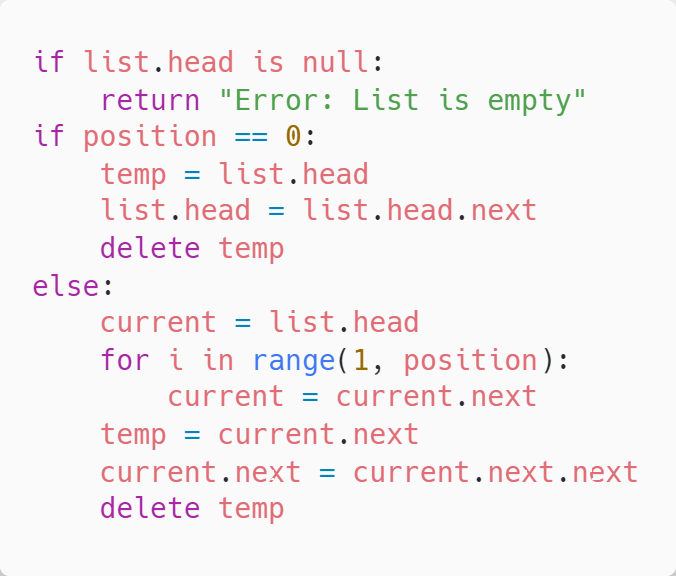
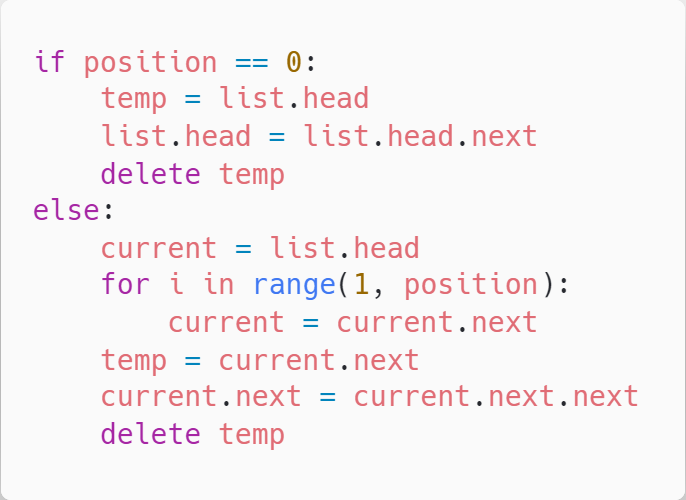
update demo code for singly linked list

diff --git a/include/libScene/SLLScene.cpp b/include/libScene/SLLScene.cpp
@@ -153,14 +153,14 @@ std::vector<EventAnimation> SLLScene::addModeEvents(int chosenNode) {
             event.colorArrows.emplace_back(0, NodeInfo::ArrowType::RIGHT);
             event.statusChosenNode = NodeInfo::StatusNode::OutChain;
             event.isPrintNormal = true;
-            event.lines = {3, 4};
+            event.lines = {1, 2};
 
             events.emplace_back(event);
         }
 
         event.reset();
         event.titleNodes.emplace_back(chosenNode, "head|temp");
-        event.lines = {5};
+        event.lines = {3};
         event.statusChosenNode = NodeInfo::StatusNode::InChain;
         events.emplace_back(event);
     } else {
@@ -174,7 +174,7 @@ std::vector<EventAnimation> SLLScene::addModeEvents(int chosenNode) {
         if (chosenNode == this->linkedList->getSize())
             event.hiddenArrows.emplace_back(chosenNode - 1, NodeInfo::ArrowType::RIGHT);
         event.statusChosenNode = NodeInfo::StatusNode::OutChain;
-        event.lines = {7};
+        event.lines = {5};
 
         events.emplace_back(event);
 
@@ -190,7 +190,7 @@ std::vector<EventAnimation> SLLScene::addModeEvents(int chosenNode) {
             if (chosenNode == this->linkedList->getSize())
                 event.hiddenArrows.emplace_back(chosenNode - 1, NodeInfo::ArrowType::RIGHT);
             event.statusChosenNode = NodeInfo::StatusNode::OutChain;
-            event.lines = {8};
+            event.lines = {6};
 
             events.emplace_back(event);
 
@@ -208,7 +208,7 @@ std::vector<EventAnimation> SLLScene::addModeEvents(int chosenNode) {
             if (chosenNode == this->linkedList->getSize())
                 event.hiddenArrows.emplace_back(chosenNode - 1, NodeInfo::ArrowType::RIGHT);
             event.statusChosenNode = NodeInfo::StatusNode::OutChain;
-            event.lines = {9};
+            event.lines = {7};
 
             events.emplace_back(event);
         }
@@ -224,7 +224,7 @@ std::vector<EventAnimation> SLLScene::addModeEvents(int chosenNode) {
             event.colorArrows.emplace_back(chosenNode, NodeInfo::ArrowType::RIGHT);
             event.statusChosenNode = NodeInfo::StatusNode::OutChain;
             event.isPrintNormal = true;
-            event.lines = {10};
+            event.lines = {8};
 
             events.emplace_back(event);
         }
@@ -235,7 +235,7 @@ std::vector<EventAnimation> SLLScene::addModeEvents(int chosenNode) {
                 {chosenNode, "temp"}
         };
         event.statusChosenNode = NodeInfo::StatusNode::InChain;
-        event.lines = {11};
+        event.lines = {9};
 
         events.emplace_back(event);
     }
@@ -256,7 +256,7 @@ std::vector<EventAnimation> SLLScene::deleteModeEvents(int chosenNode) {
         event.titleNodes.emplace_back(chosenNode, "head|temp");
         event.colorNodes.push_back(chosenNode);
         event.statusChosenNode = NodeInfo::StatusNode::InChain;
-        event.lines = {2, 3};
+        event.lines = {0, 1};
 
         events.emplace_back(event);
 
@@ -270,7 +270,7 @@ std::vector<EventAnimation> SLLScene::deleteModeEvents(int chosenNode) {
             event.colorArrows.emplace_back(chosenNode, NodeInfo::ArrowType::RIGHT);
             event.isPrintNormal = true;
             event.statusChosenNode = NodeInfo::StatusNode::OutChain;
-            event.lines = {4};
+            event.lines = {2};
 
             events.emplace_back(event);
         }
@@ -278,7 +278,7 @@ std::vector<EventAnimation> SLLScene::deleteModeEvents(int chosenNode) {
         event.reset();
         event.titleNodes.emplace_back(1, "head");
         event.statusChosenNode = NodeInfo::StatusNode::Visible;
-        event.lines = {5};
+        event.lines = {3};
 
         events.emplace_back(event);
     } else {
@@ -286,7 +286,7 @@ std::vector<EventAnimation> SLLScene::deleteModeEvents(int chosenNode) {
         event.titleNodes.emplace_back(0, "head|current");
         event.colorNodes.push_back(0);
         event.statusChosenNode = NodeInfo::StatusNode::InChain;
-        event.lines = {7};
+        event.lines = {5};
 
         events.emplace_back(event);
 
@@ -298,7 +298,7 @@ std::vector<EventAnimation> SLLScene::deleteModeEvents(int chosenNode) {
             };
             event.colorNodes.push_back(i);
             event.statusChosenNode = NodeInfo::StatusNode::InChain;
-            event.lines = {8};
+            event.lines = {6};
 
             events.emplace_back(event);
 
@@ -312,7 +312,7 @@ std::vector<EventAnimation> SLLScene::deleteModeEvents(int chosenNode) {
             event.colorNodes.push_back(i);
             event.colorArrows.emplace_back(i, NodeInfo::ArrowType::RIGHT);
             event.statusChosenNode = NodeInfo::StatusNode::InChain;
-            event.lines = {9};
+            event.lines = {7};
 
             events.emplace_back(event);
         }
@@ -326,7 +326,7 @@ std::vector<EventAnimation> SLLScene::deleteModeEvents(int chosenNode) {
         event.colorNodes.push_back(chosenNode);
         event.colorArrows.emplace_back(chosenNode - 1, NodeInfo::ArrowType::RIGHT);
         event.statusChosenNode = NodeInfo::StatusNode::InChain;
-        event.lines = {10};
+        event.lines = {8};
 
         events.emplace_back(event);
 
@@ -341,14 +341,14 @@ std::vector<EventAnimation> SLLScene::deleteModeEvents(int chosenNode) {
             event.colorArrows.emplace_back(chosenNode - 1, NodeInfo::ArrowType::RIGHT);
             event.statusChosenNode = NodeInfo::StatusNode::OutChain;
             event.isPrintNormal = true;
-            event.lines = {11};
+            event.lines = {9};
 
             events.emplace_back(event);
 
             event.reset();
             event.titleNodes.emplace_back(0, "head");
             event.statusChosenNode = NodeInfo::StatusNode::Visible;
-            event.lines = {12};
+            event.lines = {10};
 
             events.emplace_back(event);
         } else {
@@ -361,7 +361,7 @@ std::vector<EventAnimation> SLLScene::deleteModeEvents(int chosenNode) {
             event.colorNodes.push_back(chosenNode);
             event.hiddenArrows.emplace_back(chosenNode - 1, NodeInfo::ArrowType::RIGHT);
             event.statusChosenNode = NodeInfo::StatusNode::OutChain;
-            event.lines = {11};
+            event.lines = {9};
 
             events.emplace_back(event);
 
@@ -369,7 +369,7 @@ std::vector<EventAnimation> SLLScene::deleteModeEvents(int chosenNode) {
             event.titleNodes.emplace_back(0, "head");
             event.hiddenArrows.emplace_back(chosenNode - 1, NodeInfo::ArrowType::RIGHT);
             event.statusChosenNode = NodeInfo::StatusNode::Visible;
-            event.lines = {12};
+            event.lines = {10};
 
             events.emplace_back(event);
         }

diff --git a/include/Constants.hpp b/include/Constants.hpp
@@ -196,8 +196,8 @@ namespace constants{
 
         namespace SLL{
             const std::pair<const char*, const int> CODES_PATH[5] = {
-                std::make_pair("../assets/code/SLL/add.png", 12),
-                std::make_pair("../assets/code/SLL/delete.png", 13),
+                std::make_pair("../assets/code/SLL/add.png", 10),
+                std::make_pair("../assets/code/SLL/delete.png", 11),
                 std::make_pair("../assets/code/SLL/update.png", 3),
                 std::make_pair("../assets/code/SLL/search.png", 4)
             };
